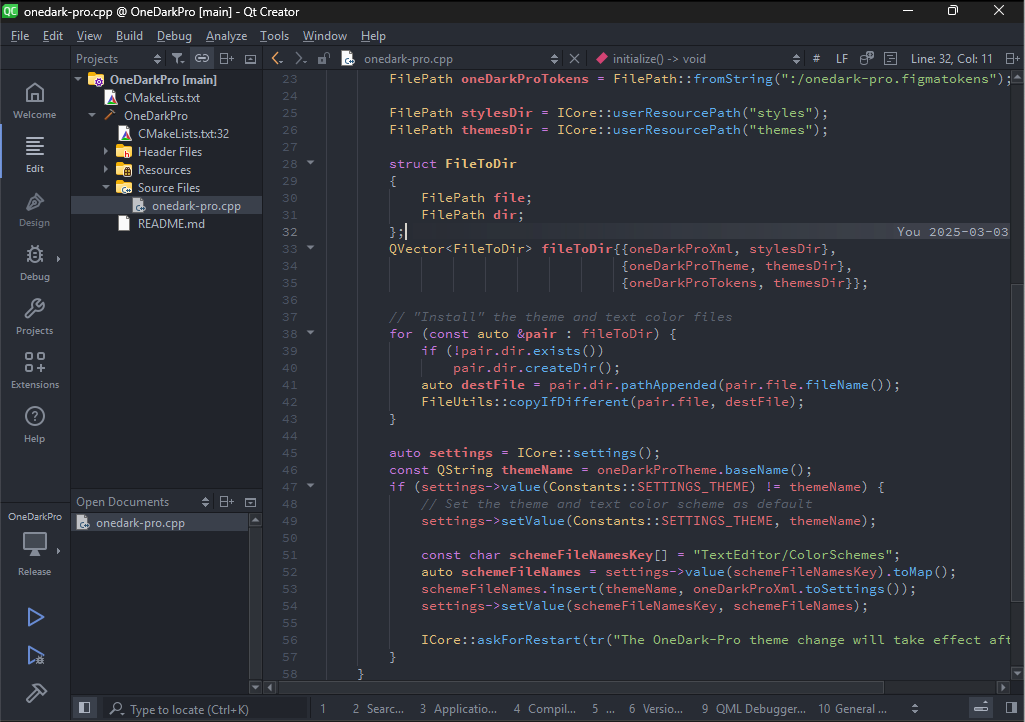
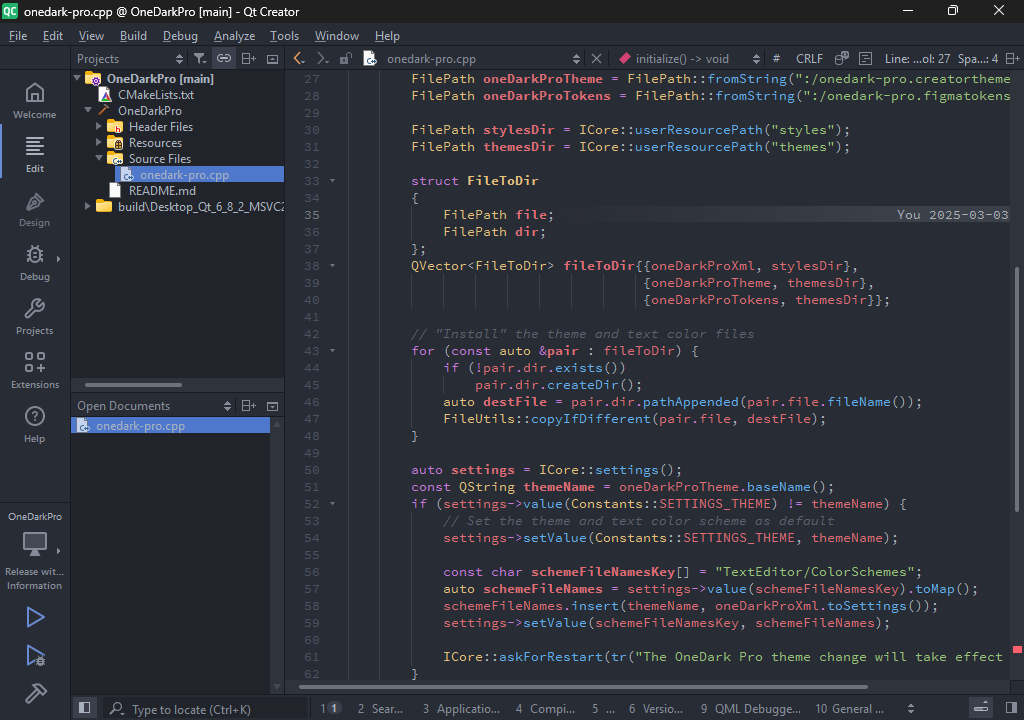
Update to Qt Creator 16.0
Also bundle the Phantom QStyle to replace the Fusion style.

The usage of Phantom QStyle can be turned off by setting
QTCREATOR_USE_DEFAULT_STYLE to 1.

diff --git a/onedark-pro.cpp b/onedark-pro.cpp
@@ -1,9 +1,14 @@
 #include <coreplugin/coreconstants.h>
 #include <coreplugin/icontext.h>
 #include <coreplugin/icore.h>
+#include <coreplugin/manhattanstyle.h>
 #include <extensionsystem/iplugin.h>
 #include <utils/filepath.h>
 #include <utils/fileutils.h>
+
+#include <phantom/phantomstyle.h>
+
+#include <QApplication>
 
 using namespace Core;
 using namespace Utils;
@@ -54,6 +59,15 @@ public:
             settings->setValue(schemeFileNamesKey, schemeFileNames);
 
             ICore::askForRestart(tr("The OneDark Pro theme change will take effect after restart."));
+        }
+
+        const auto *proxyStyle = qobject_cast<QProxyStyle *>(QApplication::style());
+        const bool havePhantom = proxyStyle && proxyStyle->baseStyle()->objectName() == "Phantom";
+        if (!havePhantom && !qEnvironmentVariableIsSet("QTCREATOR_USE_DEFAULT_STYLE")) {
+            auto manhattanStyle = new ManhattanStyle(QApplication::style()->name());
+            manhattanStyle->setBaseStyle(new PhantomStyle);
+
+            QApplication::setStyle(manhattanStyle);
         }
     }
 };
